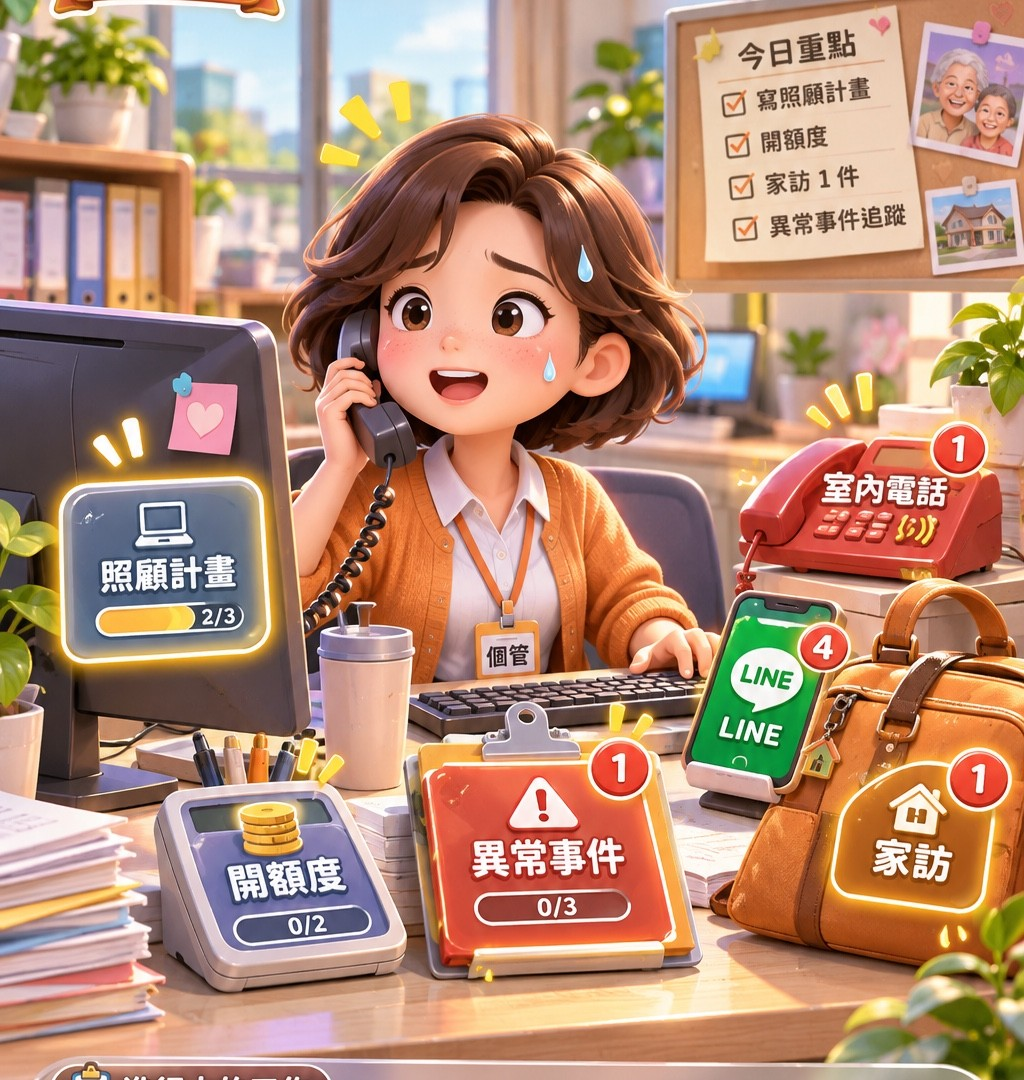
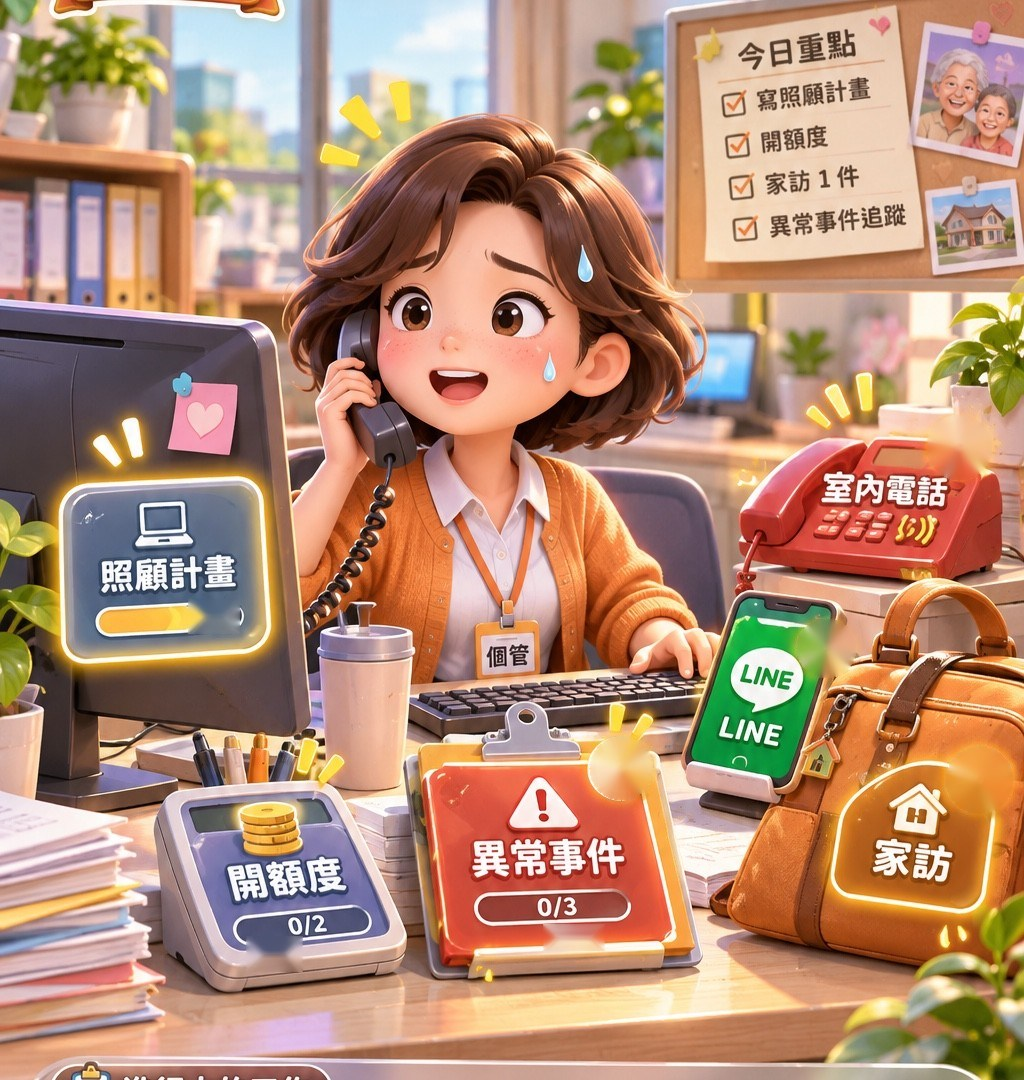
Add files via upload

diff --git a/index.html b/index.html
@@ -1,5 +1,5 @@
-<!doctype html><html lang="zh-Hant"><head><meta charset="utf-8"><meta name="viewport" content="width=device-width,initial-scale=1,maximum-scale=1,user-scalable=no,viewport-fit=cover"><meta name="theme-color" content="#f8d4b0"><title>個管手速王 V0.7｜辦公室大混亂</title><style>
-*{box-sizing:border-box}html,body{margin:0;height:100%;overflow:hidden;font-family:-apple-system,BlinkMacSystemFont,'Noto Sans TC',system-ui,sans-serif;background:#ffe9d0;color:#603825}button{font:inherit;-webkit-tap-highlight-color:transparent;touch-action:manipulation}#app{height:100dvh;max-width:520px;margin:auto;display:flex;flex-direction:column;background:linear-gradient(160deg,#fff2df,#f3bd90);overflow:hidden;position:relative}.hud{height:76px;flex:none;display:grid;grid-template-columns:1.2fr 1fr 1fr;gap:7px;padding:calc(6px + env(safe-area-inset-top)*.4) 9px 5px;z-index:5}.stat{border:2px solid #fff9;background:linear-gradient(160deg,#775045,#4b302a);color:#fff;border-radius:16px;text-align:center;box-shadow:0 4px 8px #76422b38;display:flex;flex-direction:column;justify-content:center}.stat small{font-size:11px;font-weight:800}.stat b{font-size:clamp(21px,6vw,30px);line-height:1.13;font-variant-numeric:tabular-nums}.stat .bar{height:9px;border-radius:20px;background:#ffe9d6;margin:6px 10px 0;overflow:hidden}.stat .bar span{display:block;height:100%;width:0;background:linear-gradient(90deg,#5fd36c,#f5d144,#ee5a49);transition:width .2s}.scene-area{position:relative;flex:1;min-height:0;display:flex;justify-content:center;align-items:center;background:radial-gradient(#ffdfbb,#e8b78f)}.scene{position:relative;max-height:100%;max-width:100%;aspect-ratio:1024/1080;height:100%;width:auto;overflow:hidden;box-shadow:0 0 20px #8e513244}.scene img{width:100%;height:100%;display:block;pointer-events:none}.spot{position:absolute;border:0;border-radius:18%;background:transparent;padding:0;z-index:2}.spot.ready:before{content:'';position:absolute;inset:0;border-radius:19%;box-shadow:inset 0 0 18px var(--light),0 0 0 3px #fff8,0 0 20px 6px var(--light);background:color-mix(in srgb,var(--light) 13%,transparent);animation:glow .8s ease-in-out infinite alternate;pointer-events:none}.spot.ready:after{content:attr(data-count);position:absolute;top:-12px;right:-9px;min-width:27px;height:27px;padding:2px 5px;display:grid;place-items:center;border-radius:99px;background:#e94d3d;border:2px solid white;color:#fff;font-size:14px;font-weight:1000;box-shadow:0 2px 5px #0005}.spot.selected{outline:3px dashed white;outline-offset:1px}.spot:active{transform:scale(.96)}@keyframes glow{to{filter:brightness(1.4);transform:scale(1.025)}}.label{position:absolute;bottom:-7px;left:50%;transform:translateX(-50%);background:#4d2f29dd;border:1px solid #fff9;border-radius:99px;color:white;padding:2px 7px;white-space:nowrap;font-size:11px;font-weight:900;opacity:0;pointer-events:none}.spot.ready .label{opacity:1}.spark{position:absolute;z-index:9;pointer-events:none;font-size:23px;font-weight:1000;color:#fff;text-shadow:0 2px 6px #76431c;animation:fly .75s ease-out forwards}@keyframes fly{to{transform:translateY(-70px) scale(1.2);opacity:0}}.bubble{position:absolute;top:10px;left:50%;transform:translateX(-50%);max-width:92%;background:#fff9e9ee;color:#75412b;border:2px solid white;box-shadow:0 4px 12px #6e41294d;border-radius:15px;padding:7px 12px;font-size:13px;font-weight:900;text-align:center;z-index:4;opacity:0;transition:opacity .15s;pointer-events:none}.bubble.show{opacity:1}.desk{height:160px;flex:none;position:relative;z-index:6;background:linear-gradient(180deg,#fff7e9,#ffddbd);border-top:3px solid #fff;box-shadow:0 -6px 18px #79422c35;padding:8px 11px calc(9px + env(safe-area-inset-bottom)*.4);display:flex;flex-direction:column;gap:6px}.desk-top{display:flex;justify-content:space-between;align-items:center;gap:7px;font-size:12px;font-weight:900;color:#89533b}.desk-top span:last-child{font-size:11px;color:#a25d42}.work{flex:1;border:2px solid #f0c5a5;background:#fffaf3;border-radius:17px;padding:9px;display:flex;align-items:center;gap:9px;min-height:0}.work-info{flex:1;min-width:0}.work-title{font-size:16px;font-weight:1000;white-space:nowrap;overflow:hidden;text-overflow:ellipsis}.work-desc{font-size:12px;color:#9b6a53;line-height:1.35;margin-top:3px}.action{min-width:130px;max-width:52%;min-height:58px;border:0;border-radius:13px;color:#fff;font-size:15px;font-weight:1000;background:linear-gradient(#ffae5f,#db6e37);box-shadow:0 4px 0 #a84b2c;padding:6px 9px}.action:disabled{opacity:.55}.action:active{transform:translateY(2px);box-shadow:0 2px 0 #a84b2c}.progress{height:6px;border-radius:9px;background:#f1d8c5;margin-top:6px;overflow:hidden}.progress>i{display:block;background:#ef9551;height:100%;transition:width .2s}.work-empty{width:100%;text-align:center;font-weight:800;font-size:14px;color:#9d6b50}.tiny{font-size:11px}.callpill{position:absolute;z-index:5;top:45px;right:10px;background:#4f9d74;color:white;border:2px solid #fff;border-radius:99px;padding:6px 10px;font-size:12px;font-weight:900;display:none;box-shadow:0 3px 8px #0003}.callpill.show{display:block}.travel{position:absolute;inset:0;background:#ffdfb8ec;z-index:10;display:none;align-items:center;justify-content:center;flex-direction:column;gap:12px;color:#75432c;font-size:24px;font-weight:1000;text-align:center}.travel.show{display:flex}.scooter{font-size:76px;animation:ride .5s infinite alternate}@keyframes ride{to{transform:translateX(18px) rotate(5deg)}}.overlay{position:absolute;inset:0;z-index:30;background:#342019c9;display:grid;place-items:center;padding:22px}.modal{width:100%;max-width:390px;background:linear-gradient(160deg,#fffaf0,#ffe1c3);border:4px solid #fff;border-radius:27px;box-shadow:0 16px 50px #291208a0;padding:24px 18px;text-align:center}.modal h1{font-size:30px;margin:0 0 7px;color:#8c472b}.modal p{line-height:1.6;font-size:14px}.modal button{width:100%;border:0;border-radius:16px;padding:14px;background:linear-gradient(#f7a45b,#d8753b);box-shadow:0 4px 0 #a45230;color:white;font-size:19px;font-weight:1000}.modal .muted{font-size:12px;color:#9d765f}.scoreline{font-size:34px;font-weight:1000;color:#b55d32}@media(max-height:720px){.hud{height:64px}.desk{height:142px}.work{padding:6px}.action{min-height:48px}.work-title{font-size:14px}}
-</style></head><body><div id="app"><header class="hud"><div class="stat"><small>⏱ 剩餘時間</small><b id="timer">00:45</b></div><div class="stat"><small>⭐ 分數</small><b id="score">0</b></div><div class="stat"><small>❤ 壓力指數</small><b id="stressText">0%</b><div class="bar"><span id="stress"></span></div></div></header><div class="scene-area"><div class="scene" id="scene"><img src="office.jpg" alt="個管辦公室"><button class="spot" data-key="plan" aria-label="照顧計畫" style="left:4%;top:43%;width:24%;height:18%;--light:#61b7ff"><span class="label">照顧計畫</span></button><button class="spot" data-key="phone" aria-label="室內電話" style="left:72%;top:37%;width:27%;height:19%;--light:#ffd046"><span class="label">室內電話</span></button><button class="spot" data-key="line" aria-label="LINE" style="left:66%;top:55%;width:18%;height:17%;--light:#6cf19c"><span class="label">LINE</span></button><button class="spot" data-key="visit" aria-label="家訪" style="left:80%;top:61%;width:19%;height:34%;--light:#ffcf59"><span class="label">家訪</span></button><button class="spot" data-key="incident" aria-label="異常事件" style="left:40%;top:71%;width:27%;height:24%;--light:#ff5b53"><span class="label">異常事件</span></button><button class="spot" data-key="budget" aria-label="開額度" style="left:14%;top:80%;width:26%;height:18%;--light:#ffdf5e"><span class="label">開額度</span></button><div class="bubble" id="bubble"></div><div class="callpill" id="callpill">☎ 通話中 · 可繼續工作</div><div class="travel" id="travel"><div class="scooter">🛵</div>正在家訪中…<small style="font-size:14px">辦公室工作仍在累積！</small></div></div></div><footer class="desk"><div class="desk-top"><span id="workLabel">📋 點擊發光物件處理工作</span><span id="summary">完成 0｜逾時 0</span></div><div class="work" id="work"><div class="work-empty">哪裡亮了，就點哪裡！<div class="tiny">可隨時切換工作，進度不會消失</div></div></div></footer><div class="overlay" id="overlay"><div class="modal" id="modal"><h1>個管手速王</h1><p>45 秒多工大作戰！<br>辦公室哪個物件亮起來，就直接點它。<br>可以隨時切換工作，電話中也能繼續忙！</p><button id="start">開始上班！</button><p class="muted">V0.7｜發光通知・多工切換・動畫回饋</p></div></div></div><script>
-(()=>{'use strict';const $=id=>document.getElementById(id),types=['plan','phone','line','visit','incident','budget'],title={plan:'照顧計畫',phone:'室內電話',line:'LINE 訊息',visit:'家訪',incident:'異常事件',budget:'開額度'},points={plan:150,phone:60,line:40,visit:240,incident:300,budget:200},penalty={plan:90,phone:60,line:35,visit:140,incident:170,budget:80},limits={plan:15,phone:8,line:10,visit:17,incident:15,budget:18},steps={plan:['確認個案需求','安排照顧服務','送出照顧計畫'],incident:['聯繫確認安全','協調後續處理','完成通報紀錄'],budget:['確認本月額度','開立完成・儲存']};let queues={},chosen=null,running=false,elapsed=0,score=0,done=0,miss=0,visitUntil=0,callUntil=0,activeCall=null,startedAt=0,lastSpawn=0,raf=0,bubbleTimer=0,lastTick=0;const spots=Object.fromEntries([...document.querySelectorAll('.spot')].map(e=>[e.dataset.key,e]));function msg(s){const b=$('bubble');b.textContent=s;b.classList.add('show');clearTimeout(bubbleTimer);bubbleTimer=setTimeout(()=>b.classList.remove('show'),900)}function sparkle(k,s){let e=document.createElement('div');e.className='spark';e.textContent=s;let p=spots[k];e.style.left=(p.offsetLeft+p.offsetWidth*.4)+'px';e.style.top=(p.offsetTop+8)+'px';$('scene').appendChild(e);setTimeout(()=>e.remove(),780)}function add(k){if(!running)return;let q=queues[k];if(q.length>=(k==='line'?5:3))return;q.push({step:0,due:elapsed+limits[k],special:k==='phone'&&Math.random()<.32});sparkle(k,'!');if(k==='incident')msg('⚠ 異常事件！請優先處理');update()}function finish(k){queues[k].shift();score+=points[k];done++;sparkle(k,'+'+points[k]);if(k==='phone'){activeCall=null;callUntil=0}if(chosen===k&&!queues[k].length)chosen=null;update()}function tap(k){if(!running||visitUntil>elapsed)return;if(!queues[k].length){msg(title[k]+'目前沒有待辦');return}chosen=k;if(k==='phone'&&!queues.phone[0].step){queues.phone[0].step=1;activeCall=queues.phone[0];callUntil=elapsed+(activeCall.special?5:2);msg(activeCall.special?'☎ 電話黑洞！一邊聽一邊工作':'☎ 接通了！可以繼續處理其他工作')}update()}function act(){if(!running||!chosen||visitUntil>elapsed)return;let k=chosen,j=queues[k][0];if(!j)return;if(k==='phone'){if(j.step&&elapsed>=callUntil)finish(k);return}if(k==='visit'){visitUntil=elapsed+2.8;j.step=1;chosen=null;$('travel').classList.add('show');msg('🛵 出發家訪！');update();return}if(k==='line'){finish(k);return}j.step++;sparkle(k,'✓');if(j.step>=steps[k].length)finish(k);else update()}function update(){let n=0;for(let k of types){let count=queues[k].length;n+=count;spots[k].classList.toggle('ready',count>0);spots[k].classList.toggle('selected',chosen===k);spots[k].dataset.count=count||''}let stress=Math.min(100,n*13+miss*4);$('stress').style.width=stress+'%';$('stressText').textContent=stress+'%';$('score').textContent=score;$('timer').textContent='00:'+String(Math.max(0,Math.ceil(45-elapsed))).padStart(2,'0');$('summary').textContent='完成 '+done+'｜逾時 '+miss;$('callpill').classList.toggle('show',!!activeCall&&elapsed<callUntil);render()}function render(){let w=$('work');if(!chosen||!queues[chosen].length){$('workLabel').textContent='📋 點擊發光物件處理工作';w.innerHTML='<div class="work-empty">哪裡亮了，就點哪裡！<div class="tiny">可隨時切換工作，進度不會消失</div></div>';return}let k=chosen,j=queues[k][0],s=steps[k],label='',desc='',progress=0,disabled=false;if(s){label=s[j.step];desc='步驟 '+(j.step+1)+' / '+s.length+' · 隨時可切換';progress=j.step/s.length*100}else if(k==='line'){label='回覆這則訊息';desc='未讀 '+queues.line.length+' 則';progress=0}else if(k==='visit'){label='出發家訪';desc='外出約 3 秒，其他工作會累積';progress=0}else if(k==='phone'){disabled=elapsed<callUntil;label=disabled?'通話中…':'結束通話';desc=disabled?'可以同時處理其他工作':'完成這通電話';progress=disabled?50:100}w.innerHTML='';let info=document.createElement('div');info.className='work-info';let t=document.createElement('div');t.className='work-title';t.textContent=title[k];let d=document.createElement('div');d.className='work-desc';d.textContent=desc;let bar=document.createElement('div');bar.className='progress';let fill=document.createElement('i');fill.style.width=progress+'%';bar.appendChild(fill);info.append(t,d,bar);let b=document.createElement('button');b.className='action';b.textContent=label;b.disabled=disabled;b.onclick=act;w.append(info,b)}function spawn(){let phase=elapsed<9?0:elapsed<22?1:elapsed<34?2:3,pool=phase===0?['plan','line','phone','budget']:phase===1?['plan','line','line','phone','visit','budget','incident']:['plan','line','line','phone','phone','visit','budget','incident','incident'];add(pool[Math.floor(Math.random()*pool.length)]);if(phase>=2&&Math.random()<.19)add('line');lastSpawn=elapsed}function tick(t){if(!running)return;elapsed=Math.min(45,(t-startedAt)/1000);if(elapsed-lastSpawn>(elapsed<9?2.4:elapsed<22?1.8:elapsed<34?1.35:1.03))spawn();for(let k of types){let q=queues[k];while(q.length&&q[0].due<=elapsed){let old=q.shift();if(k==='phone'&&old===activeCall){activeCall=null;callUntil=0}miss++;score=Math.max(0,score-penalty[k]);sparkle(k,'逾時');if(chosen===k)chosen=q.length?k:null}}if(visitUntil&&elapsed>=visitUntil){visitUntil=0;$('travel').classList.remove('show');if(queues.visit.length&&queues.visit[0].step===1)finish('visit')}if(activeCall&&elapsed>=callUntil&&lastTick<callUntil){msg('☎ 通話可結束，其他工作也能繼續')}lastTick=elapsed;if(elapsed>=45){end();return}update();raf=requestAnimationFrame(tick)}function start(){queues=Object.fromEntries(types.map(k=>[k,[]]));chosen=null;running=true;elapsed=0;score=0;done=0;miss=0;visitUntil=0;callUntil=0;activeCall=null;lastSpawn=0;lastTick=0;$('overlay').style.display='none';$('travel').classList.remove('show');startedAt=performance.now();add('plan');add('line');update();cancelAnimationFrame(raf);raf=requestAnimationFrame(tick)}function end(){running=false;cancelAnimationFrame(raf);$('travel').classList.remove('show');let rank=score>=1800?'多工傳說':score>=1150?'個管手速王':score>=650?'資深個管':'努力中的個管';$('modal').innerHTML='<h1>下班啦！</h1><h2>'+rank+'</h2><div class="scoreline">'+score+' 分</div><p>完成 '+done+' 件｜逾時 '+miss+' 件</p><p class="muted">45 秒固定挑戰・事件隨機出現</p><button id="again">再挑戰一次</button>';$('overlay').style.display='grid';$('again').onclick=start}types.forEach(k=>spots[k].onclick=()=>tap(k));$('start').onclick=start;})();
+<!doctype html><html lang="zh-Hant"><head><meta charset="utf-8"><meta name="viewport" content="width=device-width,initial-scale=1,maximum-scale=1,user-scalable=no,viewport-fit=cover"><meta name="theme-color" content="#f8caa6"><title>個管手速王 V0.8｜多工大作戰</title><style>
+*{box-sizing:border-box}html,body{margin:0;width:100%;height:100%;overflow:hidden;font-family:system-ui,-apple-system,"Noto Sans TC",sans-serif;background:#e9b18a;color:#fff}button{font:inherit;cursor:pointer;touch-action:manipulation;-webkit-tap-highlight-color:transparent}#app{position:relative;height:100dvh;max-width:520px;margin:auto;overflow:hidden;background:linear-gradient(160deg,#ffdfb5,#e6a878);isolation:isolate}.hud{position:absolute;top:env(safe-area-inset-top);left:0;right:0;height:74px;z-index:12;display:flex;gap:6px;padding:7px 8px;background:linear-gradient(#4a2b25ef,#4a2b25b0 80%,transparent)}.stat{flex:1;min-width:0;background:#58382bdc;border:1.5px solid #fff9;border-radius:15px;display:flex;flex-direction:column;align-items:center;justify-content:center;box-shadow:0 2px 9px #0003}.stat small{font-size:10px;font-weight:900}.stat b{font-size:clamp(19px,5.5vw,28px);line-height:1.15;font-variant-numeric:tabular-nums}.stat .meter{width:80%;height:8px;border-radius:10px;background:#ffffff55;overflow:hidden;margin-top:4px}.stat .meter i{display:block;height:100%;width:0;background:linear-gradient(90deg,#80e68b,#ffcd47,#f14236);transition:width .2s}.stage{position:absolute;top:calc(env(safe-area-inset-top) + 74px);bottom:calc(env(safe-area-inset-bottom) + 51px);width:100%;display:flex;align-items:center;justify-content:center;overflow:hidden;background:#d9ad86}.scene{position:relative;width:100%;height:100%;overflow:hidden;touch-action:manipulation}.scene img{width:100%;height:100%;object-fit:fill;display:block;pointer-events:none}.spot{position:absolute;border:0;background:transparent;border-radius:19%;padding:0;z-index:3;--light:#ffd15d;outline:0}.spot.active:before{content:"";position:absolute;inset:0;border-radius:20%;background:color-mix(in srgb,var(--light) 10%,transparent);box-shadow:inset 0 0 14px var(--light),0 0 0 2px #fff9,0 0 15px 5px var(--light);animation:pulse 1s ease-in-out infinite alternate}.spot.active .count{display:grid}.spot .count{display:none;position:absolute;right:-9px;top:-10px;min-width:26px;height:26px;border-radius:99px;background:#e63c36;border:2px solid #fff;place-items:center;padding:0 4px;font-size:13px;font-weight:1000;color:white;box-shadow:0 2px 6px #0006}.spot.busy:before{box-shadow:0 0 14px 6px #83ebff;animation:pulse .5s ease-in-out infinite alternate}.spot:active{transform:scale(.97)}.spot.shake{animation:shake .35s ease-in-out}.spot.done:after{content:'✓';position:absolute;left:40%;top:35%;font-size:35px;font-weight:1000;color:#fff;text-shadow:0 0 8px #29b66a,0 0 14px #29b66a;animation:pop .6s both;pointer-events:none}.step{position:absolute;z-index:4;left:50%;bottom:calc(100% + 5px);transform:translateX(-50%);background:#fff8e9;color:#743e2c;border:2px solid #fff;border-radius:13px;box-shadow:0 3px 12px #4c291e77;font-size:clamp(10px,2.7vw,13px);font-weight:1000;white-space:nowrap;padding:6px 9px;pointer-events:none;opacity:0;transition:opacity .12s}.spot.active .step{opacity:1}.spot[data-key=plan] .step,.spot[data-key=phone] .step{bottom:auto;top:calc(100% + 3px)}.spot[data-key=visit] .step{right:0;left:auto;transform:none}.mini-progress{position:absolute;bottom:-8px;left:9%;width:82%;height:6px;border-radius:8px;background:#40251f99;border:1px solid #fff9;overflow:hidden;opacity:0}.spot.active .mini-progress{opacity:1}.mini-progress i{display:block;background:#7cf1a7;height:100%;width:0;transition:width .16s}.spark{position:absolute;z-index:15;pointer-events:none;font-weight:1000;font-size:22px;text-shadow:0 2px 5px #54301b;color:#fff;animation:fly .85s ease-out forwards}.hint{position:absolute;z-index:10;top:10px;left:50%;transform:translateX(-50%);background:#fff8e9ed;border:2px solid #fff;border-radius:16px;color:#78452f;padding:9px 14px;box-shadow:0 5px 15px #4c281c44;font-size:13px;font-weight:900;text-align:center;max-width:91%;opacity:0;pointer-events:none;transition:opacity .2s}.hint.show{opacity:1}.speech{position:absolute;z-index:5;left:31%;top:17%;max-width:47%;background:#fff9e6e8;color:#80452e;border:2px solid white;border-radius:20px 20px 20px 3px;padding:7px 9px;font-size:12px;font-weight:900;box-shadow:0 3px 12px #0003;opacity:0;transform:translateY(6px);transition:.25s;pointer-events:none}.speech.show{opacity:1;transform:translateY(0)}.footer{position:absolute;bottom:0;left:0;right:0;height:calc(51px + env(safe-area-inset-bottom));z-index:10;background:linear-gradient(90deg,#684332,#4e312a);border-top:2px solid #ffe7c7;display:flex;align-items:flex-start;justify-content:space-between;padding:9px 12px;color:#fff7e9;font-size:12px;font-weight:850;gap:10px}.footer span:last-child{white-space:nowrap}.danger{position:absolute;inset:0;z-index:11;pointer-events:none;opacity:0;box-shadow:inset 0 0 0 6px #f9413b,inset 0 0 60px 30px #ed1e2499;transition:opacity .2s}.danger.warn{opacity:.16;animation:alarm 1.8s ease-in-out infinite}.danger.high{opacity:.4;animation:alarm 1.1s ease-in-out infinite}.danger.critical{opacity:.7;animation:alarm .72s ease-in-out infinite}.overlay{position:absolute;inset:0;z-index:30;background:#321b17cf;display:grid;place-items:center;padding:20px}.overlay.hidden{display:none}.modal{width:100%;max-width:390px;border:3px solid #fff;background:linear-gradient(150deg,#fff9e9,#f8d3a9);color:#78432c;border-radius:28px;padding:23px 20px;text-align:center;box-shadow:0 12px 35px #0008}.modal h1{margin:0 0 8px;font-size:29px}.modal p{font-size:14px;line-height:1.65}.modal button,.visit-button{border:0;border-radius:15px;background:linear-gradient(#ffad62,#d87537);color:white;font-size:18px;font-weight:1000;padding:14px 20px;width:100%;box-shadow:0 4px 0 #a74e2b}.modal button:active,.visit-button:active{transform:translateY(3px);box-shadow:0 1px 0 #a74e2b}.modal small{font-size:12px;color:#98755f}.big-score{font-size:36px;font-weight:1000;color:#b35a31}.visit{position:absolute;inset:0;z-index:22;display:none;flex-direction:column;align-items:center;justify-content:center;gap:14px;background:linear-gradient(170deg,#fff3d9,#eeb781);color:#7d452f;text-align:center;padding:22px}.visit.show{display:flex}.visit .scooter{font-size:80px;animation:ride .6s ease-in-out infinite alternate}.visit h2{margin:0;font-size:26px}.visit p{margin:0;font-weight:700}.visit .visit-button{max-width:320px;min-height:66px}.visit .visit-button:disabled{opacity:.6}.visit .visit-timer{height:12px;width:min(300px,90%);border-radius:10px;background:#d9a381;overflow:hidden}.visit .visit-timer i{display:block;width:0;height:100%;background:#5aaf7e}.callstate{position:absolute;top:calc(env(safe-area-inset-top) + 79px);right:7px;z-index:14;background:#3c9d65;color:#fff;border:2px solid white;border-radius:30px;padding:5px 9px;font-size:11px;font-weight:900;display:none}.callstate.show{display:block}.characterfx{position:absolute;top:21%;left:50%;font-size:30px;z-index:4;opacity:0;pointer-events:none;animation:float 1s infinite alternate}.characterfx.show{opacity:1}@keyframes pulse{to{filter:brightness(1.3);transform:scale(1.025)}}@keyframes fly{to{opacity:0;transform:translateY(-65px) scale(1.2)}}@keyframes pop{0%{opacity:0;transform:scale(.2)}45%{opacity:1;transform:scale(1.5)}100%{opacity:0;transform:scale(1)}}@keyframes shake{0%,100%{transform:translateX(0)}25%{transform:translateX(-4px)}50%{transform:translateX(4px)}75%{transform:translateX(-3px)}}@keyframes alarm{50%{opacity:.03}}@keyframes ride{to{transform:translateX(24px) rotate(3deg)}}@keyframes float{to{transform:translateY(-10px) rotate(8deg)}}@media(prefers-reduced-motion:reduce){.danger.warn,.danger.high,.danger.critical,.spot.active:before,.characterfx.show{animation:none}}@media(max-height:670px){.hud{height:60px}.stage{top:calc(env(safe-area-inset-top) + 60px)}.stat b{font-size:19px}.footer{height:calc(42px + env(safe-area-inset-bottom));font-size:11px}.stage{bottom:calc(env(safe-area-inset-bottom) + 42px)}}
+</style></head><body><div id="app"><div class="hud"><div class="stat"><small>⏱ 剩餘時間</small><b id="timer">00:45</b></div><div class="stat"><small>⭐ 分數</small><b id="score">0</b></div><div class="stat"><small>❤ 壓力值</small><b id="stressText">0%</b><div class="meter"><i id="stressBar"></i></div></div></div><div class="stage"><div class="scene" id="scene"><img src="office.jpg" alt="個案管理員辦公室"><button class="spot" data-key="plan" style="left:6%;top:44%;width:23%;height:18%;--light:#65baff" aria-label="照顧計畫"><span class="count"></span><span class="step"></span><span class="mini-progress"><i></i></span></button><button class="spot" data-key="phone" style="left:72%;top:38%;width:27%;height:18%;--light:#ffcf49" aria-label="室內電話"><span class="count"></span><span class="step"></span><span class="mini-progress"><i></i></span></button><button class="spot" data-key="line" style="left:68%;top:56%;width:16%;height:18%;--light:#52f29d" aria-label="LINE"><span class="count"></span><span class="step"></span><span class="mini-progress"><i></i></span></button><button class="spot" data-key="visit" style="left:81%;top:64%;width:19%;height:28%;--light:#ffc25b" aria-label="家訪"><span class="count"></span><span class="step"></span><span class="mini-progress"><i></i></span></button><button class="spot" data-key="incident" style="left:42%;top:72%;width:26%;height:20%;--light:#ff5753" aria-label="異常事件"><span class="count"></span><span class="step"></span><span class="mini-progress"><i></i></span></button><button class="spot" data-key="budget" style="left:16%;top:80%;width:23%;height:15%;--light:#ffe05c" aria-label="開額度"><span class="count"></span><span class="step"></span><span class="mini-progress"><i></i></span></button><div class="hint" id="hint"></div><div class="speech" id="speech"></div><div class="characterfx" id="characterfx">💦</div></div></div><div class="callstate" id="callstate">☎ 通話中・仍可多工</div><div class="footer"><span id="status">點擊發光物件，直接完成工作</span><span id="summary">完成 0｜逾時 0</span></div><div class="danger" id="danger"></div><div class="visit" id="visit"><div class="scooter">🛵</div><h2 id="visitTitle">家訪任務</h2><p id="visitDesc">出發後將暫時無法操作辦公室工作</p><button class="visit-button" id="visitStart">出發家訪</button><button class="visit-button" id="visitCancel" style="background:#a8866e;box-shadow:none">返回辦公室</button><div class="visit-timer" id="visitMeter" style="display:none"><i id="visitFill"></i></div></div><div class="overlay" id="overlay"><div class="modal" id="modal"><h1>個管手速王</h1><p>45 秒多工大作戰！<br>哪個物件發光，就直接點它完成工作。<br>家訪會暫時離開辦公室；壓力到 100% 就 Burnout！</p><button id="start">開始上班！</button><p><small>V0.8｜場景直點・多工・壓力警報</small></p></div></div></div><script>
+(()=>{'use strict';const $=id=>document.getElementById(id),types=['plan','phone','line','visit','incident','budget'];const names={plan:'照顧計畫',phone:'室內電話',line:'LINE',visit:'家訪',incident:'異常事件',budget:'開額度'};const steps={plan:['確認個案需求','安排服務項目','送出照顧計畫'],phone:['接聽電話','結束通話'],line:['回覆 LINE'],visit:['出發家訪'],incident:['聯繫確認','協調處理','完成通報'],budget:['確認額度','開立完成','完成任務']};const award={plan:150,phone:60,line:40,visit:240,incident:300,budget:200},fine={plan:80,phone:70,line:35,visit:120,incident:170,budget:75},limit={plan:15,phone:8,line:11,visit:17,incident:16,budget:18};const spots=Object.fromEntries([...document.querySelectorAll('.spot')].map(e=>[e.dataset.key,e]));let q={},playing=false,elapsed=0,score=0,done=0,miss=0,stress=0,started=0,lastSpawn=0,raf=0,call=null,travel=null,lastSecond=-1,hintTimeout=0,speechTimeout=0;function tip(s){$('hint').textContent=s;$('hint').classList.add('show');clearTimeout(hintTimeout);hintTimeout=setTimeout(()=>$('hint').classList.remove('show'),950)}function say(s){$('speech').textContent=s;$('speech').classList.add('show');clearTimeout(speechTimeout);speechTimeout=setTimeout(()=>$('speech').classList.remove('show'),1700)}function effect(k,s){let e=document.createElement('div'),p=spots[k];e.className='spark';e.textContent=s;e.style.left=(p.offsetLeft+p.offsetWidth*.35)+'px';e.style.top=(p.offsetTop+p.offsetHeight*.2)+'px';$('scene').appendChild(e);setTimeout(()=>e.remove(),850)}function spawn(k){if(!playing||q[k].length>=(k==='line'?5:3))return;q[k].push({step:0,due:elapsed+limit[k],special:k==='phone'&&Math.random()<.3,ready:0});spots[k].classList.remove('shake');void spots[k].offsetWidth;spots[k].classList.add('shake');if(k==='incident')say('異常事件！先確認安全！');if(k==='phone')effect(k,'☎');render()}function complete(k){if(!q[k].length)return;q[k].shift();score+=award[k];done++;spots[k].classList.add('done');setTimeout(()=>spots[k].classList.remove('done'),650);effect(k,'+'+award[k]);if(k==='phone')call=null;render()}function clickSpot(k){if(!playing||travel)return;const j=q[k][0];if(!j){tip(names[k]+'目前沒有待辦');return}if(k==='visit'){$('visit').classList.add('show');$('visitTitle').textContent='家訪任務';$('visitDesc').textContent='準備出發？外出期間其他工作仍會累積';$('visitStart').style.display='block';$('visitCancel').style.display='block';$('visitMeter').style.display='none';return}if(k==='phone'){if(j.step===0){j.step=1;j.ready=elapsed+(j.special?3.4:1.3);call=j;tip(j.special?'電話黑洞！可以邊聽邊處理工作':'電話接通！可以繼續多工');say('您好，我是個管！')}else if(elapsed>=j.ready){complete(k);say('終於掛電話了！')}else{tip('通話中…可先處理其他工作')}render();return}j.step++;effect(k,'✓');if(j.step>=steps[k].length){complete(k);if(k==='incident')say('異常事件處理完成！')}else{tip(names[k]+'：'+steps[k][j.step]);render()}}function pressure(){let n=types.reduce((v,k)=>v+q[k].length,0);let overdueSoon=types.reduce((v,k)=>v+q[k].filter(j=>j.due-elapsed<3).length,0);return Math.min(100,Math.round(n*10+overdueSoon*5+miss*7+(elapsed>30?7:0)))}function render(){if(!playing)return;stress=pressure();for(let k of types){let p=spots[k],count=q[k].length,j=q[k][0];p.classList.toggle('active',count>0);p.classList.toggle('busy',k==='phone'&&!!call);p.querySelector('.count').textContent=count;p.querySelector('.step').textContent=j?(k==='phone'&&j.step===1?(elapsed>=j.ready?'點擊掛電話':'通話中…'):steps[k][Math.min(j.step,steps[k].length-1)]):'';p.querySelector('.mini-progress i').style.width=j?(j.step/steps[k].length*100)+'%':'0%'}$('score').textContent=score;$('timer').textContent='00:'+String(Math.max(0,Math.ceil(45-elapsed))).padStart(2,'0');$('stressText').textContent=stress+'%';$('stressBar').style.width=stress+'%';$('summary').textContent='完成 '+done+'｜逾時 '+miss;$('status').textContent=stress>=80?'⚠ 工作爆量！優先處理急件':call?'☎ 通話中，仍可處理其他工作':'點擊發光物件，直接完成工作';$('callstate').classList.toggle('show',!!call);$('characterfx').classList.toggle('show',stress>=60);$('danger').className='danger'+(stress>=90?' critical':stress>=80?' high':stress>=60?' warn':'');if(stress>=100)finish(true)}function pick(){let phase=elapsed<8?0:elapsed<20?1:elapsed<33?2:3,pool=phase===0?['plan','line','phone','budget']:phase===1?['plan','line','line','phone','visit','budget','incident']:['plan','line','line','phone','phone','visit','budget','incident','incident'];spawn(pool[Math.floor(Math.random()*pool.length)]);if(phase===3&&Math.random()<.18)spawn('line');lastSpawn=elapsed}function tick(t){if(!playing)return;elapsed=Math.min(45,(t-started)/1000);if(elapsed-lastSpawn>(elapsed<8?2.8:elapsed<20?2.25:elapsed<33?1.75:1.45))pick();for(let k of types){while(q[k].length&&q[k][0].due<=elapsed){const old=q[k].shift();if(k==='phone'&&old===call)call=null;miss++;score=Math.max(0,score-fine[k]);effect(k,'逾時');if(k==='incident')say('異常事件逾時！')}}if(travel){let f=Math.min(1,(elapsed-travel.at)/travel.duration);$('visitFill').style.width=f*100+'%';if(f>=1){$('visit').classList.remove('show');travel=null;if(q.visit.length&&q.visit[0].step===1)complete('visit');say('家訪回來了，訊息好多！')}}if(Math.floor(elapsed)!==lastSecond){lastSecond=Math.floor(elapsed);if(stress>=80&&Math.random()<.35)say('怎麼又來了！')}if(elapsed>=45){finish(false);return}render();if(playing)raf=requestAnimationFrame(tick)}function start(){q=Object.fromEntries(types.map(k=>[k,[]]));playing=true;elapsed=0;score=0;done=0;miss=0;stress=0;call=null;travel=null;lastSpawn=0;lastSecond=-1;$('overlay').classList.add('hidden');$('visit').classList.remove('show');started=performance.now();spawn('plan');spawn('line');render();cancelAnimationFrame(raf);raf=requestAnimationFrame(tick)}function finish(burn){if(!playing)return;playing=false;cancelAnimationFrame(raf);$('visit').classList.remove('show');$('callstate').classList.remove('show');let rank=score>=1600?'多工傳說':score>=1000?'個管手速王':score>=550?'資深個管':'努力中的個管';$('modal').innerHTML='<h1>'+(burn?'🔥 Burnout！':'下班啦！')+'</h1><p>'+(burn?'壓力值達到 100%，提前結束挑戰。':'45 秒挑戰完成！')+'</p><h2>'+rank+'</h2><div class="big-score">'+score+' 分</div><p>完成 '+done+' 件｜逾時 '+miss+' 件｜壓力 '+stress+'%</p><button id="again">再挑戰一次</button>';$('overlay').classList.remove('hidden');$('again').onclick=start}types.forEach(k=>spots[k].onclick=()=>clickSpot(k));$('start').onclick=start;$('visitStart').onclick=()=>{if(!playing||!q.visit.length)return;const j=q.visit[0];j.step=1;travel={at:elapsed,duration:3};$('visitTitle').textContent='正在家訪中…';$('visitDesc').textContent='其他工作仍會累積，回辦公室再處理';$('visitStart').style.display='none';$('visitCancel').style.display='none';$('visitMeter').style.display='block'};$('visitCancel').onclick=()=>$('visit').classList.remove('show');})();
 </script></body></html>
